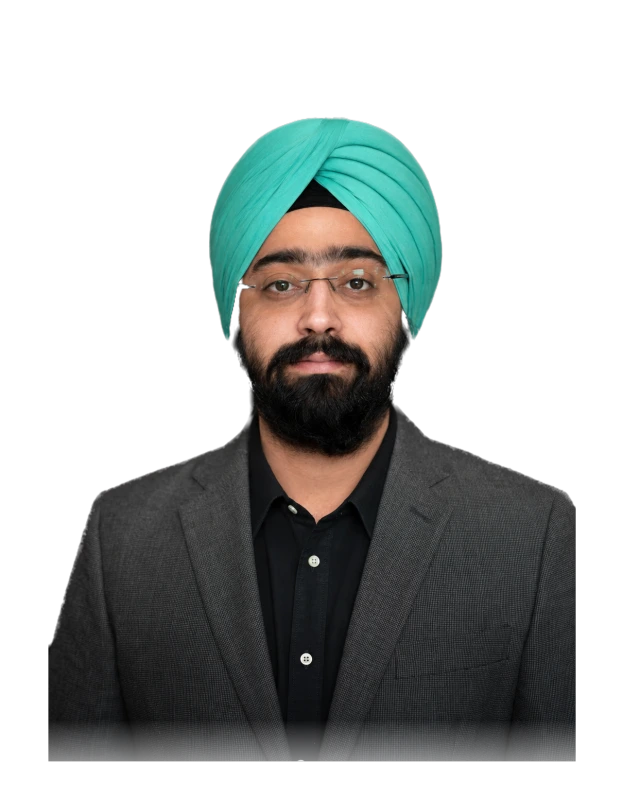
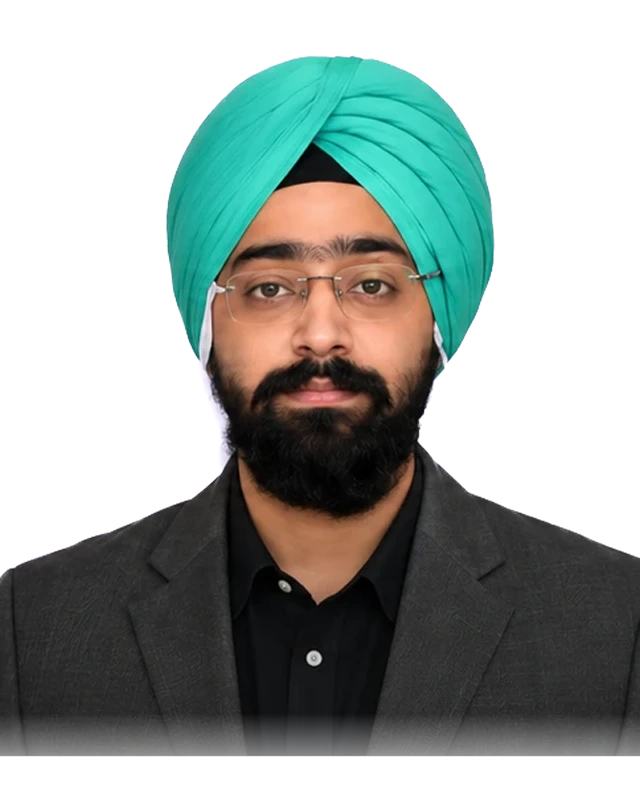
New portraits: Apoorva Khanna, Ekta Kashyap, Ichpreet Singh

diff --git a/tulasi-web/scraper/12-uniform-portraits.py b/tulasi-web/scraper/12-uniform-portraits.py
@@ -61,6 +61,11 @@ CARDS5 = ['dr-ratnarakshit-ingole', 'ms-titiksha-agnihotri', 'dr-ram-chander-jil
 for _s in CARDS5:
     SOURCES[_s] = f"{SUP2}/{_s}.png"
 
+# Sixth batch: three cards from one screenshot
+CARDS6 = ['ms-apoorva-khanna', 'ms-ekta-kashyap', 'dr-ichpreet-singh']
+for _s in CARDS6:
+    SOURCES[_s] = f"{SUP2}/{_s}.png"
+
 TW, TH = 640, 800  # 4:5
 cascades = [
     cv2.CascadeClassifier(cv2.data.haarcascades + "haarcascade_frontalface_default.xml"),
@@ -85,8 +90,8 @@ CLEAN = {"dr-gorav-gupta": (0.62, 40, 1.0)}
 # Turban + black beard + black shirt on a dark backdrop: the face detector is off-centre here, so the
 # face box is given by hand (full-resolution x, y, w, h) and near-black pixels are kept only where they
 # are beard or shirt. Everything else that dark above the shoulders is backdrop.
-FACE_BOX = {"dr-ram-chander-jiloha": (340, 320, 350, 380), "dr-ichpreet-singh": (365, 540, 330, 460), "ms-ira-gupta": (158, 150, 136, 150)}
-KEEP_DARK = {"dr-ichpreet-singh": {"ellipse": (530, 760, 175, 195), "rect": (430, 820, 650, 1536), "ymax": 850}}
+FACE_BOX = {"dr-ram-chander-jiloha": (340, 320, 350, 380), "ms-ira-gupta": (158, 150, 136, 150)}
+KEEP_DARK = {}
 
 
 def matte(img, slug=None):
@@ -239,7 +244,7 @@ def matte(img, slug=None):
 FACE_TOP, FACE_H = 0.215, 0.225  # where the face sits in the portrait, as fractions of its height
 
 
-FACE_TOP_FOR = {"dr-ichpreet-singh": 0.31, "ms-ira-gupta": 0.27}  # tall turban: more headroom
+FACE_TOP_FOR = {"ms-ira-gupta": 0.27}  # tall turban: more headroom
 # These photos have the person small in the frame, so their heads came out smaller than everyone else's.
 FACE_H_FOR = {"ms-ira-gupta": 0.2, "dr-gorav-gupta": 0.275, "dr-sameer-guliani": 0.262, "dr-ratnarakshit-ingole": 0.26}
 
@@ -280,8 +285,8 @@ def portrait(img, alpha, face, slug=None):
     return out
 
 
-SUPPLIED = set(CARDS5) | {"dr-kritika-soni", "ms-angshruta-mahanta", "inderjeet-singh", "dr-anu-yadav", "ms-ira-gupta", "ms-deliaka-ghanghass"}
-PREPARED = set(CARDS5) | {"ms-ira-gupta", "ms-deliaka-ghanghass"}  # already cropped out of a screenshot of two cards: no corner trim or sparkle
+SUPPLIED = set(CARDS5) | set(CARDS6) | {"dr-kritika-soni", "ms-angshruta-mahanta", "inderjeet-singh", "dr-anu-yadav", "ms-ira-gupta", "ms-deliaka-ghanghass"}
+PREPARED = set(CARDS5) | set(CARDS6) | {"ms-ira-gupta", "ms-deliaka-ghanghass"}  # already cropped out of a screenshot of two cards: no corner trim or sparkle
 
 
 def clean_supplied(img, slug):
